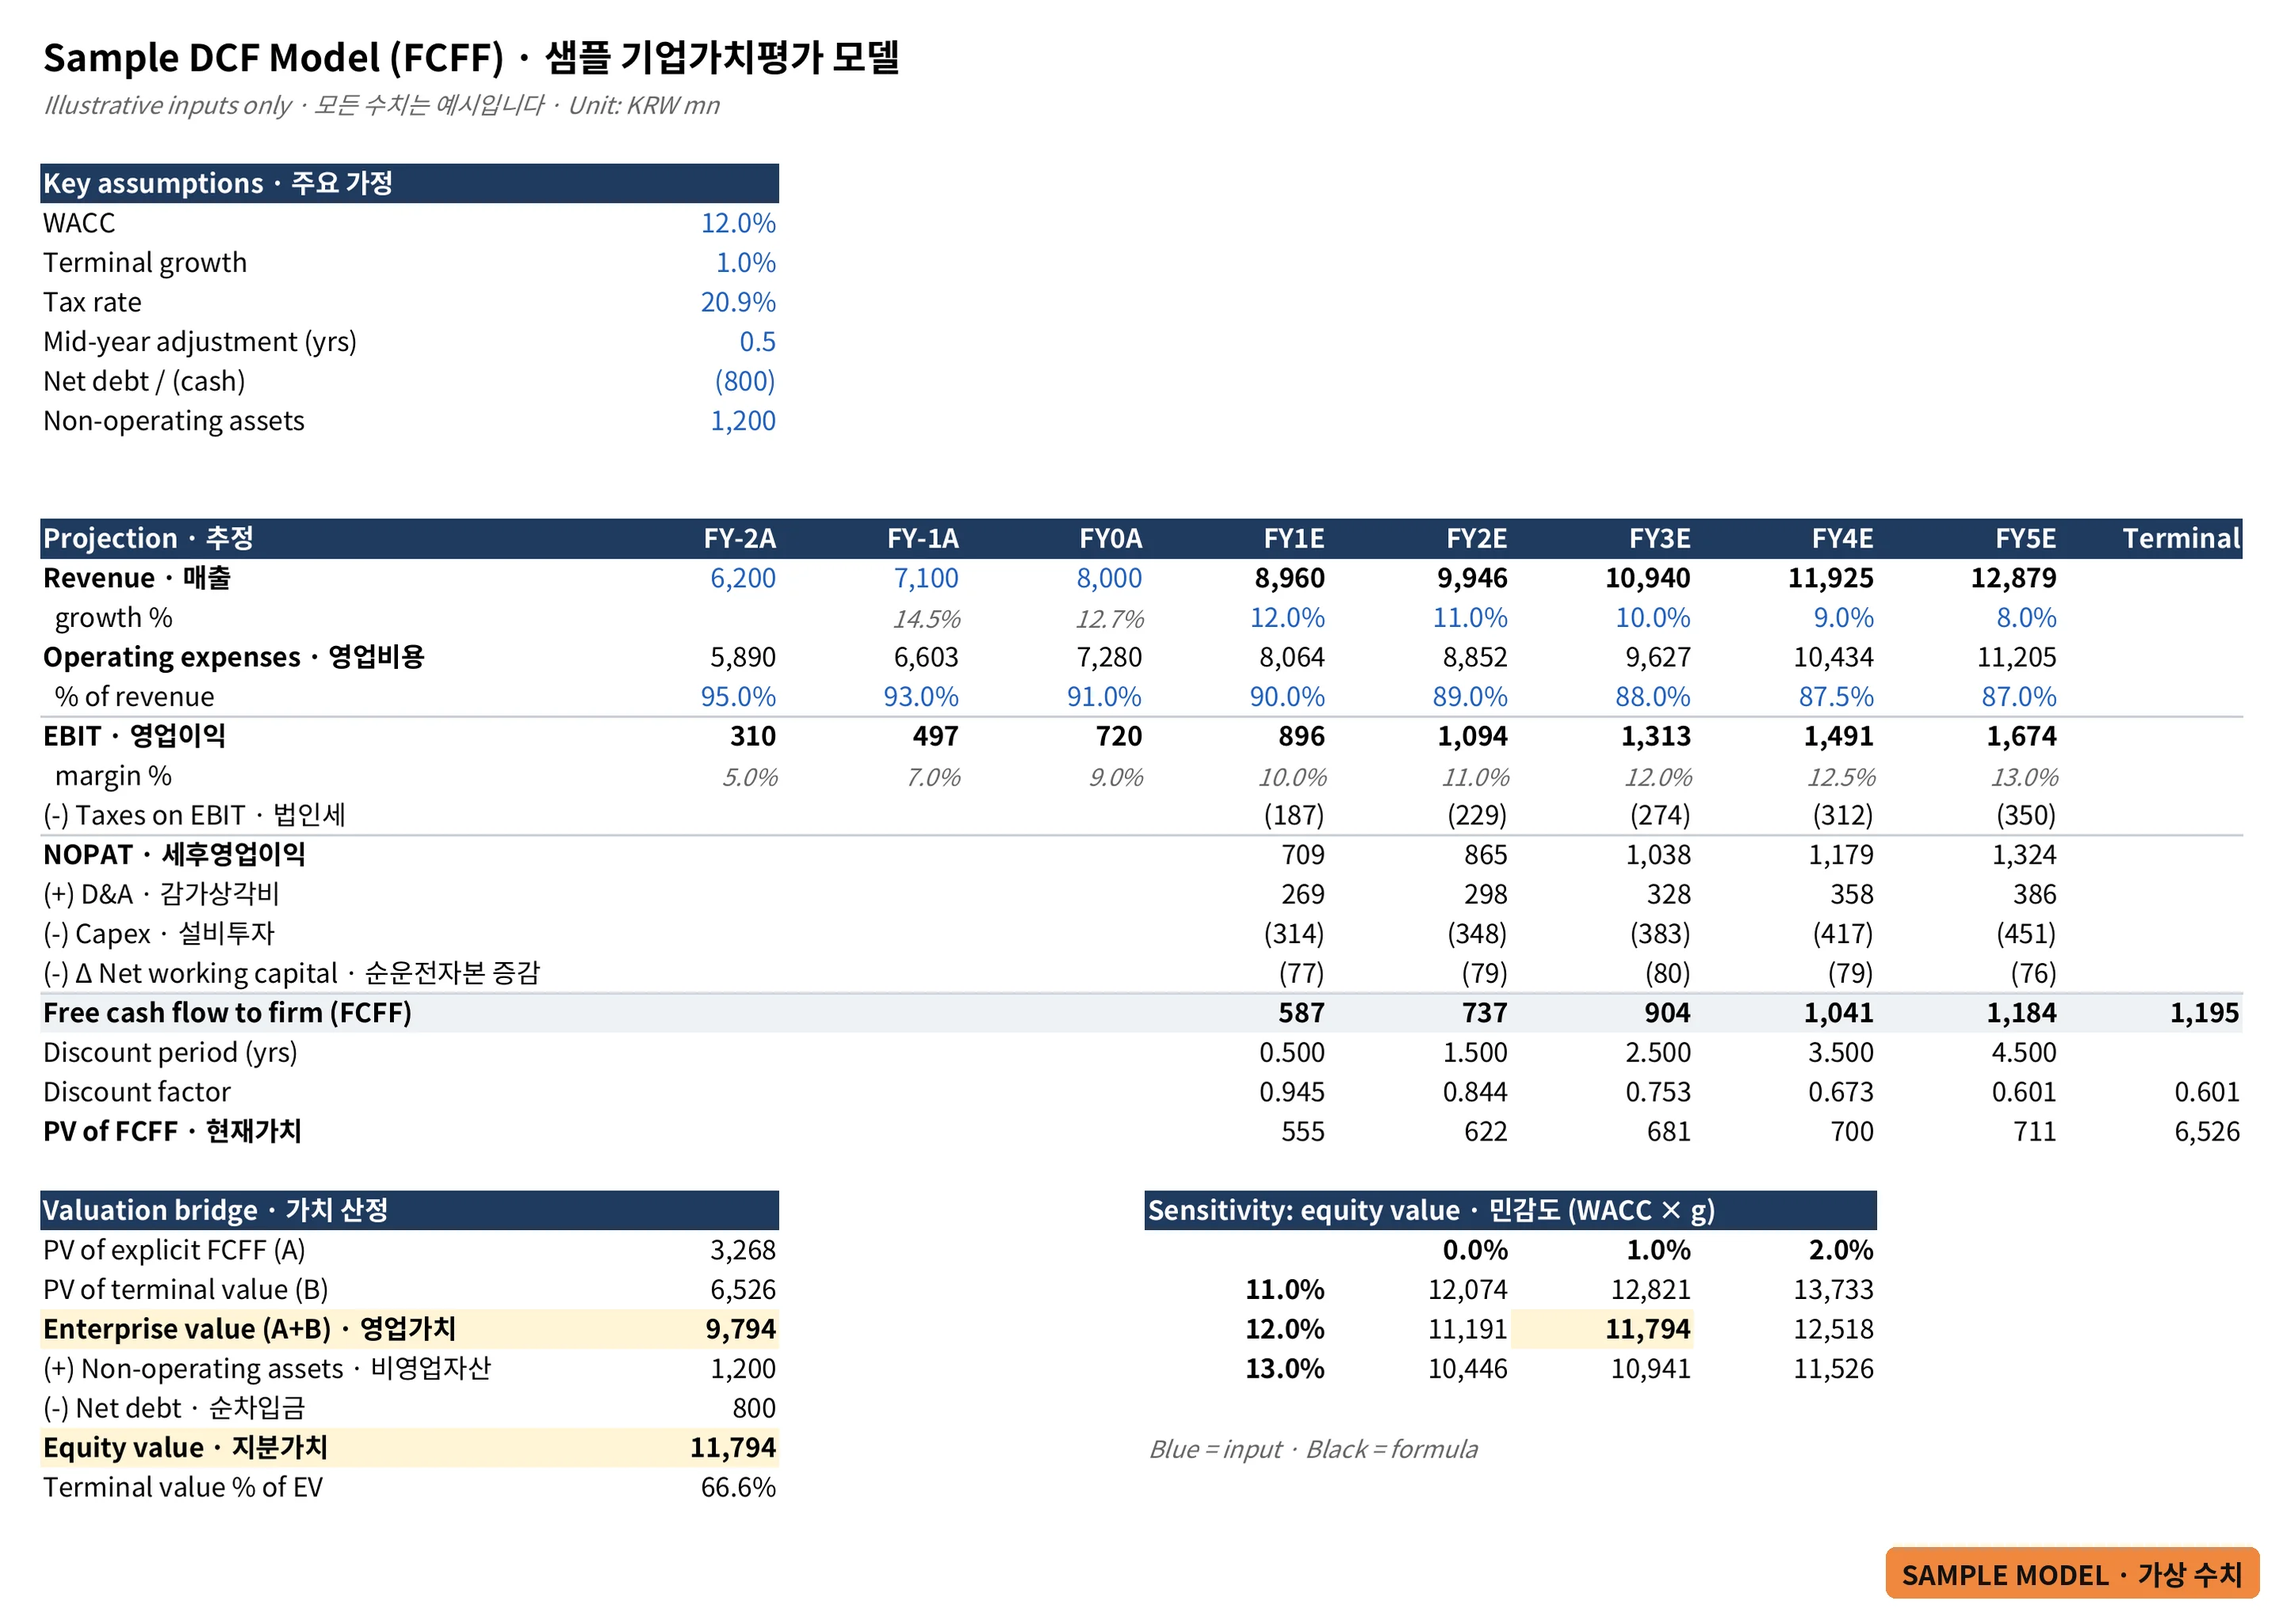
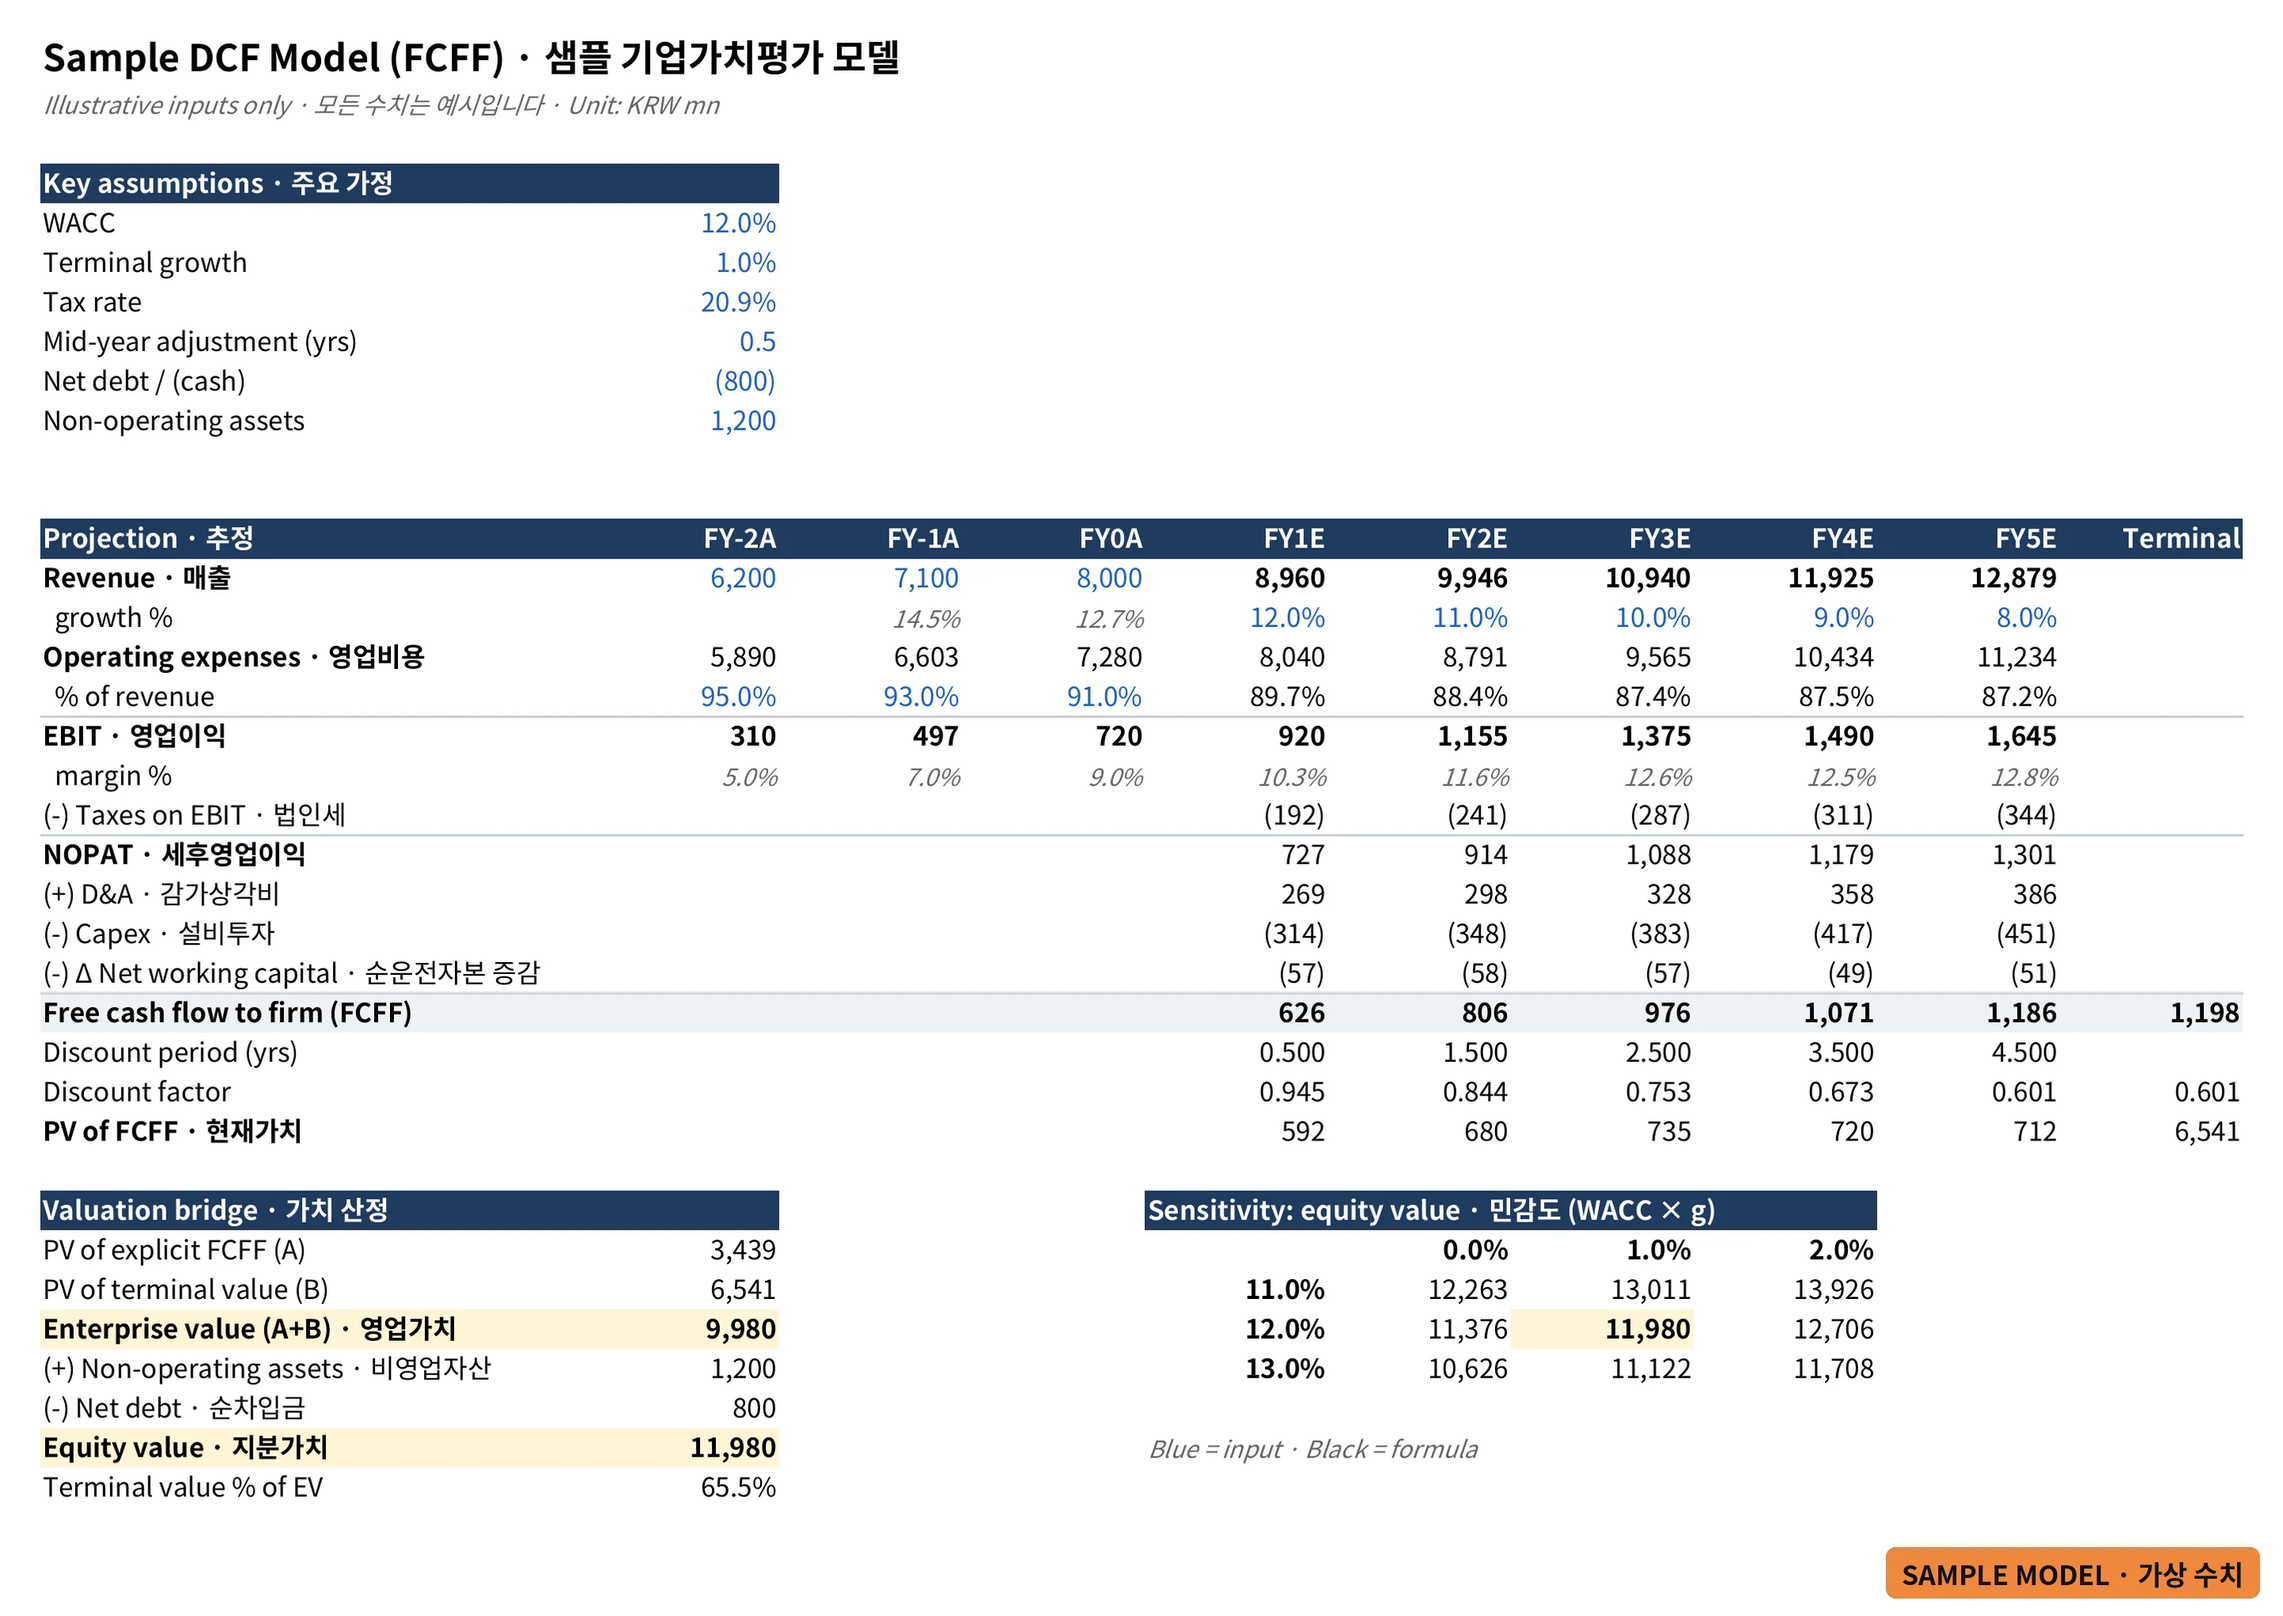
Portfolio: rename valuation card, add GC Company period and equity value/schedules screenshot
Claude-Session: https://claude.ai/code/session_015JHLxr3JNhUug2QxPMjbv4

diff --git a/index.html b/index.html
@@ -124,7 +124,7 @@ th small{display:block;font-weight:400;color:var(--mute);font-size:.92em}
 -->
 <script id="data" type="application/json">
 {
- "lastUpdated": "2026-11-10",
+ "lastUpdated": "2026-11-11",
  "files": {
   "resume": {
    "ko": "통합이력서_김태희.docx",
@@ -633,12 +633,14 @@ th small{display:block;font-weight:400;color:var(--mute);font-size:.92em}
     ]
    },
    {
-    "title": "샘플 DCF·PPA 모델",
-    "meta": "기업가치평가 방법론 예시",
-    "desc": "기업가치평가(DCF)·PPA(MEEM) 모델링 방식을 보여 주는 일반 샘플 모델이며 특정 거래와 무관",
+    "title": "DCF·PPA 모델링(샘플)",
+    "meta": "여기어때컴퍼니 | 2021.10 ~ 2021.11, 2025.06 ~ 2026.02",
+    "desc": "여기어때 인수 대상 기업가치평가(DCF/PPA) 프로젝트에서 사용한 모델링 방식을 일반 항목명과 가상 수치로 재구성한 샘플 모델(실제 거래 자료·수치 아님)",
     "role": "여기어때 인수 대상 기업가치평가(DCF/PPA) 프로젝트 참여 경험을 바탕으로 방법론을 재구성",
     "features": [
      "FCFF 기반 DCF: 기간 중간 할인, 영구성장 모형, 영업가치에서 지분가치까지 산정",
+     "주식가치 평가결과: 비영업자산·순차입금 반영, 발행주식수 기준 주당가치 산정",
+     "추정 근거 시트: 영업비용(인원 × 인당 인건비·변동비·고정비), CAPEX·상각비, 순운전자본을 DCF에 연결",
      "WACC × 영구성장률 민감도 표",
      "고객관계 무형자산 평가(MEEM): 이탈률, 기여자산 비용, 세금 상각 효과(TAB)",
      "모든 계산을 엑셀 수식으로 연결(입력값 파랑 · 수식 검정)"
@@ -656,6 +658,11 @@ th small{display:block;font-weight:400;color:var(--mute);font-size:.92em}
       "group": "screen",
       "src": "assets/portfolio/sample-dcf.webp",
       "caption": "DCF (FCFF) 모델"
+     },
+     {
+      "group": "screen",
+      "src": "assets/portfolio/sample-schedules.webp",
+      "caption": "주식가치 산정 · 추정 근거(영업비용·CAPEX·운전자본)"
      },
      {
       "group": "screen",
@@ -1164,12 +1171,14 @@ th small{display:block;font-weight:400;color:var(--mute);font-size:.92em}
     ]
    },
    {
-    "title": "Sample DCF & PPA Model",
-    "meta": "Valuation methodology example",
-    "desc": "A generic sample model illustrating DCF and PPA (MEEM) methodology; not tied to any actual transaction",
+    "title": "DCF & PPA Modeling (Sample)",
+    "meta": "GC Company Corp. | Oct–Nov 2021, Jun 2025 – Feb 2026",
+    "desc": "A sample model rebuilding the DCF and PPA methodology used in an acquisition valuation project at GC Company, with generic line items and illustrative figures (not actual deal data)",
     "role": "Rebuilt the methodology from my participation in an acquisition valuation (DCF/PPA) project at GC Company",
     "features": [
      "FCFF DCF: mid-year discounting, Gordon growth terminal value, EV-to-equity bridge",
+     "Equity value summary with non-operating assets, net debt and value per share",
+     "Supporting schedules linked into the DCF: opex build-up (headcount × cost per head, variable, fixed), capex and D&A, net working capital",
      "WACC × terminal growth sensitivity table",
      "Customer relationship valuation (MEEM): attrition, contributory asset charges, tax amortisation benefit",
      "Fully formula-driven in Excel (blue inputs, black formulas)"
@@ -1187,6 +1196,11 @@ th small{display:block;font-weight:400;color:var(--mute);font-size:.92em}
       "group": "screen",
       "src": "assets/portfolio/sample-dcf.webp",
       "caption": "DCF (FCFF) model"
+     },
+     {
+      "group": "screen",
+      "src": "assets/portfolio/sample-schedules.webp",
+      "caption": "Equity value and supporting schedules (opex, capex, NWC)"
      },
      {
       "group": "screen",
